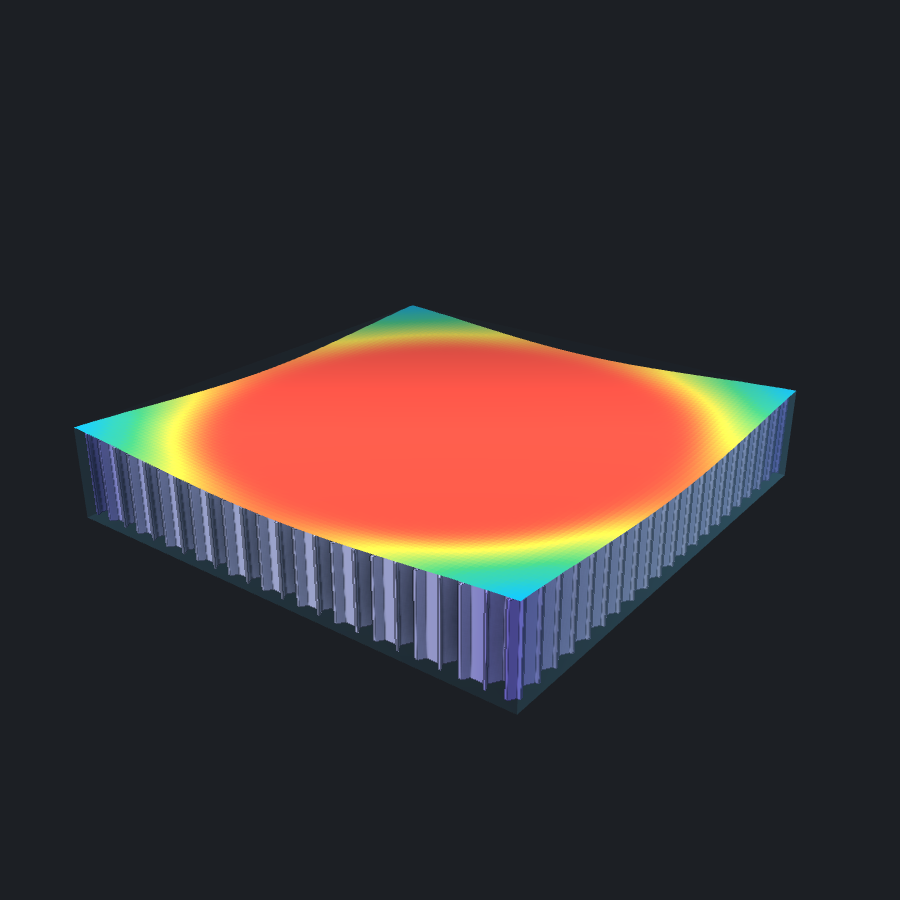
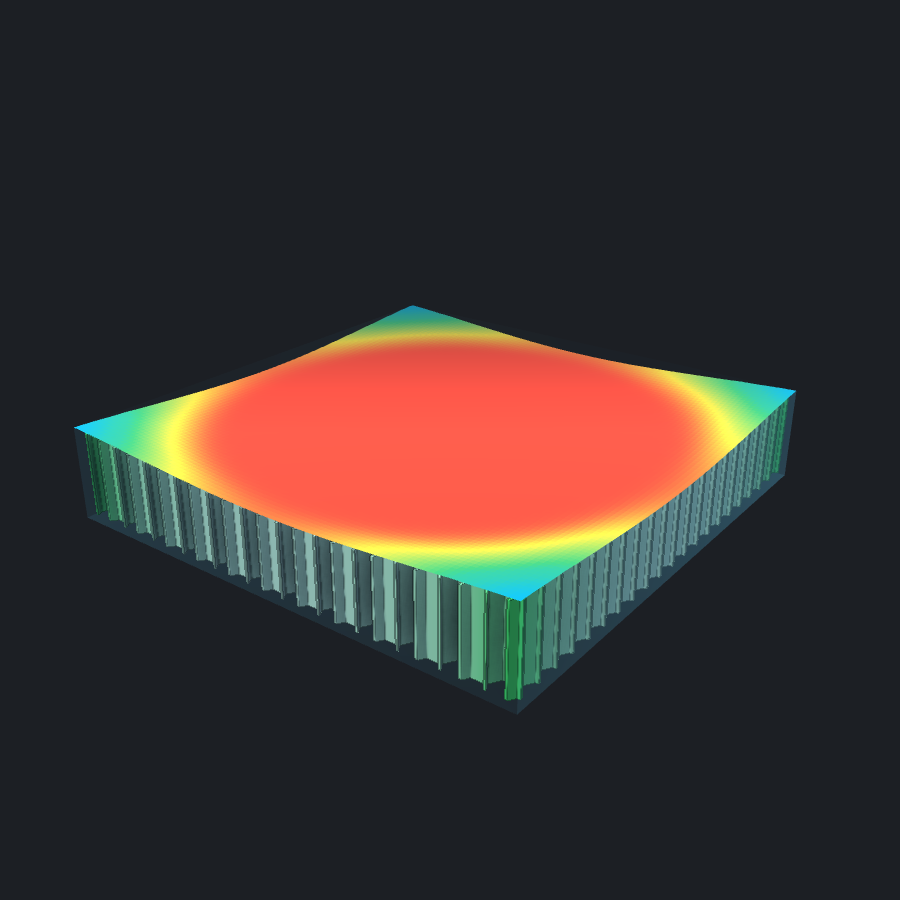
A1: the lattice walls' dense end is the Flexible accent, not the octet's violet (never purple)
LatticeStructureColour.interior (0.49, 0.42, 0.86) reads violet; this track's rule is never
purple. Sparse stays the legend's pale; dense = DS accentGreen (the Flexible section's own
accent), apart from the cyan ghost. X-ray evidence re-rendered. Targeted run: 197 tests,
6 skipped, 0 failures (all Flexible + #354 renderer/page suites incl. SmoothingPageRound2Tests).

Changed region(s): [[0.3422, 0.5911, 0.6533, 0.7778], [0.0933, 0.4667, 0.3111, 0.6533], [0.84, 0.4356, 0.8711, 0.5289]]

diff --git a/app/TopOptKit/Sources/TopOptFlows/FlexibleLatticePass.swift b/app/TopOptKit/Sources/TopOptFlows/FlexibleLatticePass.swift
@@ -27,8 +27,12 @@
 #if canImport(MetalKit)
 import MetalKit
 import simd
+import TopOptDesign
 
 final class FlexibleLatticePass {
+    /// The dense end of the wall ramp: the Flexible accent (DS accentGreen), never purple.
+    static let denseWall = DS.Color.accentGreen
+
 
     enum Failure: Error, CustomStringConvertible {
         case library(String), function(String), pipeline(String)
@@ -451,8 +455,11 @@ final class FlexibleLatticePass {
         f.clipFromModel = clipFromModel
         f.eyeFromModel = eyeFromModel
         f.eyeNormalBasis = eyeNormalBasis
-        // the octet's lightness-by-density ramp, from the legend's own constants
-        let pale = LatticeStructureColour.pale, dense = LatticeStructureColour.interior
+        // Lightness by density, like the octet's ramp — but NOT its dense end:
+        // LatticeStructureColour.interior (0.49, 0.42, 0.86) reads violet, and this track's
+        // rule is "never purple". Sparse = the legend's pale; dense = the Flexible section's
+        // own accent (FlexibleStageStyle, DS accentGreen), apart from the cyan ghost.
+        let pale = LatticeStructureColour.pale, dense = FlexibleLatticePass.denseWall
         f.sparse = SIMD4(Float(pale.r), Float(pale.g), Float(pale.b), 1)
         f.dense = SIMD4(Float(dense.r), Float(dense.g), Float(dense.b), 1)
         f.rhoSpan = SIMD4(rhoSpan.x, rhoSpan.y, 0, 0)

diff --git a/app/TopOptKit/Sources/TopOptFlows/FlexibleLatticeShader.swift b/app/TopOptKit/Sources/TopOptFlows/FlexibleLatticeShader.swift
@@ -74,7 +74,7 @@ enum FlexibleLatticeShader {
         float4x4 clipFromModel;           // MeshRenderer's P·V·M (uniforms.mvp)
         float4x4 eyeFromModel;            // V·M (uniforms.modelView)
         float4x4 eyeNormalBasis;          // rotation of V·M (uniforms.normalMatrix)
-        float4 sparse, dense;             // LatticeStructureColour.pale / .interior
+        float4 sparse, dense;             // LatticeStructureColour.pale / FlexibleLatticePass.denseWall
         float4 rhoSpan;                   // x = lo, y = hi (the in-mask ρ span)
         float4 tail;
     };
